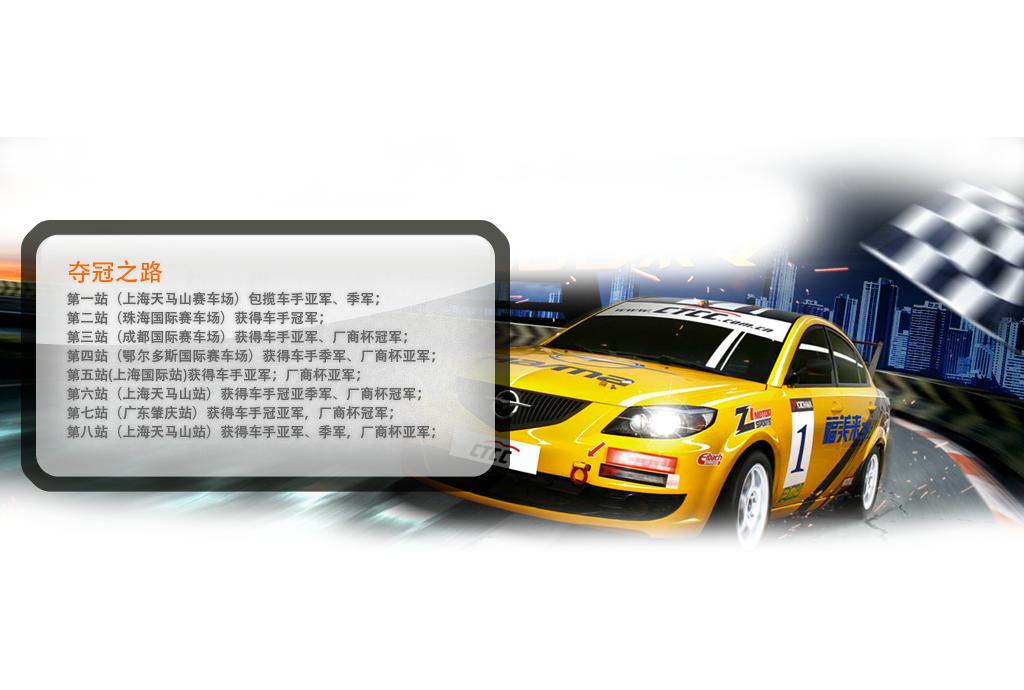
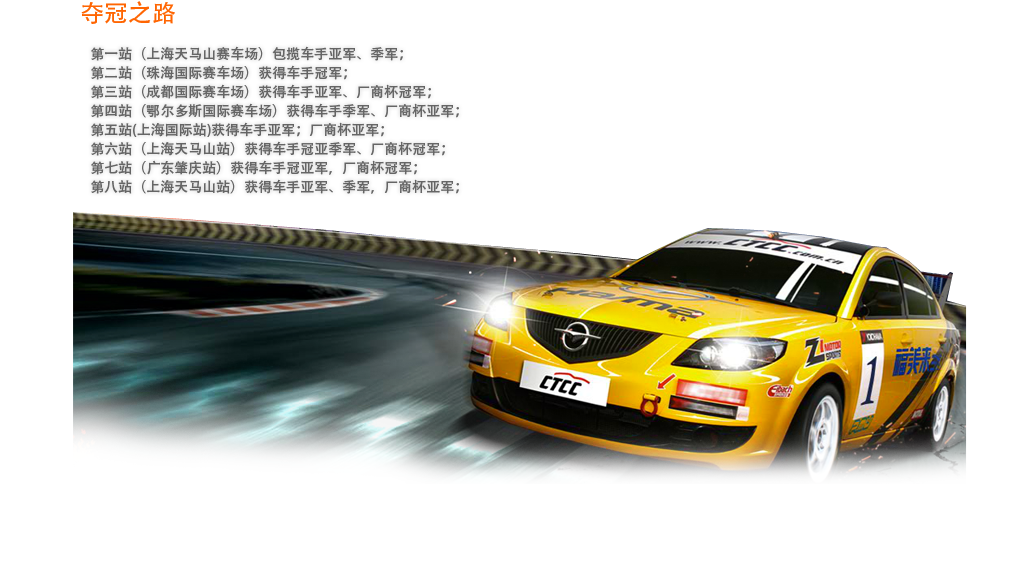
pk view controller

diff --git a/Haima/Controllers/ChampionViewController.m b/Haima/Controllers/ChampionViewController.m
@@ -8,17 +8,31 @@
 
 #import "ChampionViewController.h"
 #import "ChampionRoadViewController.h"
+#import "ChampionRouteViewController.h"
 #import "StarDriverViewController.h"
+#import "CtccIntroViewController.h"
+
+#define SELECTED_VIEW_CONTROLLER_TAG 234241
+
+@interface ChampionViewController()
+
+- (void)tabTapped:(UIButton *)button;
+
+@end
+
 
 @implementation ChampionViewController
 
+@synthesize viewControllerItems = _viewControllerItems;
+
 - (id)init
 {
-    UIViewController *detailController1 = [[[UIViewController alloc] init] autorelease];
-    detailController1.view.backgroundColor = [UIColor orangeColor];
+    //
+    // initialize view controllers
+    //
+    CtccIntroViewController *vc1 = [[[CtccIntroViewController alloc] init] autorelease];
     
-    UIViewController *detailController2 = [[[UIViewController alloc] init] autorelease];
-    detailController2.view.backgroundColor = [UIColor greenColor];
+    ChampionRouteViewController *vc2 = [[[ChampionRouteViewController alloc] init] autorelease];
     
     ChampionRoadViewController *vc3 = [[[ChampionRoadViewController alloc] init] autorelease];
     
@@ -30,25 +44,94 @@
     UIViewController *detailController6 = [[[UIViewController alloc] init] autorelease];
     detailController6.view.backgroundColor = [UIColor magentaColor];
     
-    NSArray *items = [[NSArray arrayWithObjects:
-                       [NSDictionary dictionaryWithObjectsAndKeys:@"CTCC介绍", @"title", detailController1, @"viewController", nil],
-                       [NSDictionary dictionaryWithObjectsAndKeys:@"7年CTCC征程", @"title", detailController2, @"viewController", nil],
-                       [NSDictionary dictionaryWithObjectsAndKeys:@"夺冠之路", @"title", vc3, @"viewController", nil],
-                       [NSDictionary dictionaryWithObjectsAndKeys:@"四大车手", @"title", vc4, @"viewController", nil],
-                       [NSDictionary dictionaryWithObjectsAndKeys:@"精彩视频", @"title", detailController5, @"viewController", nil],
-                       [NSDictionary dictionaryWithObjectsAndKeys:@"图片欣赏", @"title", detailController6, @"viewController", nil],
-                       nil] retain];
+    self.viewControllerItems = [NSArray arrayWithObjects:
+                                [NSDictionary dictionaryWithObjectsAndKeys:
+                                 @"CTCC介绍", @"title",
+                                 vc1, @"viewController",
+                                 NSStringFromCGRect(CGRectMake(345, 67, 90, 40)), @"frame",
+                                 nil],
+                                [NSDictionary dictionaryWithObjectsAndKeys:
+                                 @"7年CTCC征程", @"title",
+                                 vc2, @"viewController",
+                                 NSStringFromCGRect(CGRectMake(445, 67, 110, 40)), @"frame",
+                                 nil],
+                                [NSDictionary dictionaryWithObjectsAndKeys:
+                                 @"夺冠之路", @"title",
+                                 vc3, @"viewController",
+                                 NSStringFromCGRect(CGRectMake(562, 67, 74, 40)), @"frame",
+                                 nil],
+                                [NSDictionary dictionaryWithObjectsAndKeys:
+                                 @"四大车手", @"title",
+                                 vc4, @"viewController",
+                                 NSStringFromCGRect(CGRectMake(637, 67, 85, 40)), @"frame",
+                                 nil],
+                                [NSDictionary dictionaryWithObjectsAndKeys:
+                                 @"精彩视频", @"title",
+                                 detailController5, @"viewController",
+                                 NSStringFromCGRect(CGRectMake(723, 67, 80, 40)), @"frame",
+                                 nil],
+                                [NSDictionary dictionaryWithObjectsAndKeys:
+                                 @"图片欣赏", @"title",
+                                 detailController6, @"viewController",
+                                 NSStringFromCGRect(CGRectMake(808, 67, 90, 40)), @"frame",
+                                 nil],
+                                nil];
     
-    if (self = [super initWithMenuBarItems:items alignment:UITextAlignmentLeft referenceX:240])
-    {
-        
+    //
+    // setup ui components
+    //
+    int tag = 0;
+    for (NSDictionary *dict in self.viewControllerItems) {
+        UIButton *button = [UIButton buttonWithType:UIButtonTypeCustom];
+        button.tag = tag++;
+        button.frame = CGRectFromString([dict objectForKey:@"frame"]);
+        [button setTitle:[dict objectForKey:@"title"] forState:UIControlStateNormal];
+        [button setTitleColor:[UIColor darkTextColor] forState:UIControlStateNormal];
+        [button.titleLabel setFont:[UIFont systemFontOfSize:15]];
+        [button addTarget:self action:@selector(tabTapped:) forControlEvents:UIControlEventTouchUpInside];
+        [self.view addSubview:button];
     }
-    [items release];
+    
     return self;
+}
+
+- (void)loadView {
+    UIImageView *view = [[UIImageView alloc] initWithFrame:CGRectMake(0, 0, 1024, 690)];
+    view.image = [UIImage imageNamed:@"champion-bg"];
+    view.userInteractionEnabled = YES;
+    self.view = view;
+    [view release];
+}
+
+- (void)viewDidLoad {
+    [super viewDidLoad];
+    
+    UIButton *button = (UIButton *)[self.view viewWithTag:0];
+    [self tabTapped:button];
+}
+
+- (void)tabTapped:(UIButton *)button {
+    // Remove the current view controller's view
+    UIView* currentView = [self.view viewWithTag:SELECTED_VIEW_CONTROLLER_TAG];
+    [currentView removeFromSuperview];
+    
+    // Get the right view controller
+    NSDictionary *data = [self.viewControllerItems objectAtIndex:button.tag];
+    UIViewController* viewController = [data objectForKey:@"viewController"];
+    
+    // Set the view controller's frame to account for the tab bar
+    viewController.view.frame = CGRectMake(0, 120, self.view.bounds.size.width, self.view.bounds.size.height-198);
+    
+    // Se the tag so we can find it later
+    viewController.view.tag = SELECTED_VIEW_CONTROLLER_TAG;
+    
+    // Add the new view controller's view
+    [self.view addSubview:viewController.view];
 }
 
 - (void)dealloc
 {
+    [_viewControllerItems release];
     [super dealloc];
 }
 

diff --git a/Haima/Controllers/PkViewController.m b/Haima/Controllers/PkViewController.m
@@ -1,0 +1,58 @@
+//
+//  PkViewController.m
+//  Haima
+//
+//  Created by Lei Perry on 4/13/12.
+//  Copyright (c) 2012 __MyCompanyName__. All rights reserved.
+//
+
+#import "PkViewController.h"
+
+@implementation PkViewController
+
+- (void)loadView
+{
+    UIImageView *view = [[UIImageView alloc] initWithFrame:CGRectMake(0, 0, 1024, 690)];
+    view.image = [UIImage imageNamed:@"pk-bg"];
+    view.userInteractionEnabled = YES;
+    self.view = view;
+    [view release];
+    
+    UIScrollView *scrollView = [[[UIScrollView alloc] initWithFrame:CGRectMake(34, 222, 965, 406)] autorelease];
+    
+    
+    UIImage *leftImage = [UIImage imageNamed:@"pk-left"];
+    UIImage *rightImage = [UIImage imageNamed:@"pk-right-0"];
+    
+    UIImageView *leftImageView = [[UIImageView alloc] initWithFrame:CGRectMake(1, 0, leftImage.size.width, leftImage.size.height)];
+    leftImageView.image = leftImage;
+    [scrollView addSubview:leftImageView];
+    [leftImageView release];
+    
+    UIImageView *rightImageView = [[UIImageView alloc] initWithFrame:CGRectMake(leftImage.size.width+1, 0, rightImage.size.width, rightImage.size.height)];
+    rightImageView.tag = 0;
+    rightImageView.image = rightImage;
+    [scrollView addSubview:rightImageView];
+    [rightImageView release];
+    
+    for (int i=1; i<5; i++) {
+        rightImage = [UIImage imageNamed:[NSString stringWithFormat:@"pk-right-%d", i]];
+        
+        rightImageView = [[UIImageView alloc] initWithFrame:CGRectMake(leftImage.size.width+1, 0, rightImage.size.width, rightImage.size.height)];
+        rightImageView.tag = i;
+        rightImageView.image = rightImage;
+        rightImageView.alpha = 0;
+        [scrollView insertSubview:rightImageView atIndex:1];
+        [rightImageView release];
+    }
+    
+    scrollView.contentSize = CGSizeMake(scrollView.frame.size.width, leftImage.size.height);
+    [self.view addSubview:scrollView];
+}
+
+- (void)dealloc
+{
+    [super dealloc];
+}
+
+@end

diff --git a/Haima/Controllers/CustomTabBarViewController.m b/Haima/Controllers/CustomTabBarViewController.m
@@ -11,6 +11,7 @@
 #import "ChampionViewController.h"
 #import "CalculatorViewController.h"
 #import "MaintenanceViewController.h"
+#import "PkViewController.h"
 
 #define SELECTED_VIEW_CONTROLLER_TAG 98456345
 
@@ -29,7 +30,7 @@ static NSArray* tabBarItems = nil;
         
         ChampionViewController *vc2 = [[[ChampionViewController alloc] init] autorelease];
         
-        UIViewController *detailController3 = [[[UIViewController alloc] init] autorelease];
+        PkViewController *vc3 = [[[PkViewController alloc] init] autorelease];
         
         MaintenanceViewController *vc4 = [[[MaintenanceViewController alloc] init] autorelease];
         
@@ -44,7 +45,7 @@ static NSArray* tabBarItems = nil;
         tabBarItems = [[NSArray arrayWithObjects:
                         [NSDictionary dictionaryWithObjectsAndKeys:@"tab-icon-intro", @"image", vc1, @"viewController", nil],
                         [NSDictionary dictionaryWithObjectsAndKeys:@"tab-icon-champion", @"image", vc2, @"viewController", nil],
-                        [NSDictionary dictionaryWithObjectsAndKeys:@"tab-icon-pk", @"image", detailController3, @"viewController", nil],
+                        [NSDictionary dictionaryWithObjectsAndKeys:@"tab-icon-pk", @"image", vc3, @"viewController", nil],
                         [NSDictionary dictionaryWithObjectsAndKeys:@"tab-icon-maintain", @"image", vc4, @"viewController", nil],
                         [NSDictionary dictionaryWithObjectsAndKeys:@"tab-icon-promo", @"image", detailController5, @"viewController", nil],
                         [NSDictionary dictionaryWithObjectsAndKeys:@"tab-icon-calculator", @"image", vc6, @"viewController", nil],

diff --git a/Haima/Controllers/StarDriverViewController.m b/Haima/Controllers/StarDriverViewController.m
@@ -12,23 +12,24 @@
 
 - (void)loadView
 {
-    UIImageView *view = [[UIImageView alloc] initWithFrame:CGRectMake(0, 0, 1024, 690)];
+    [super loadView];
+    
+    UIImageView *view = [[UIImageView alloc] initWithFrame:CGRectMake(0, 0, 1024, 570)];
     view.image = [UIImage imageNamed:@"star-driver-bg"];
-    view.userInteractionEnabled = YES;
-    self.view = view;
+    [self.view addSubview:view];
     [view release];
     
-    int x = 121;
-    int y = 219;
-    for (int i=1; i<=4; i++) {
-        UIButton *button = [UIButton buttonWithType:UIButtonTypeCustom];
-        button.frame = CGRectMake(x, y, 183, 268);
-        button.tag = i;
-        [button setImage:[UIImage imageNamed:[NSString stringWithFormat:@"star-driver-%d", i]] forState:UIControlStateNormal];
-        [button addTarget:self action:@selector(starDriverClicked:) forControlEvents:UIControlEventTouchUpInside];
-        [self.view addSubview:button];
-        x += 198;
-    }
+//    int x = 121;
+//    int y = 219;
+//    for (int i=1; i<=4; i++) {
+//        UIButton *button = [UIButton buttonWithType:UIButtonTypeCustom];
+//        button.frame = CGRectMake(x, y, 183, 268);
+//        button.tag = i;
+//        [button setImage:[UIImage imageNamed:[NSString stringWithFormat:@"star-driver-%d", i]] forState:UIControlStateNormal];
+//        [button addTarget:self action:@selector(starDriverClicked:) forControlEvents:UIControlEventTouchUpInside];
+//        [self.view addSubview:button];
+//        x += 198;
+//    }
 }
 
 - (void)starDriverClicked:(UIButton *)button {

diff --git a/Haima/Controllers/ChampionRouteViewController.m b/Haima/Controllers/ChampionRouteViewController.m
@@ -1,21 +1,25 @@
 //
-//  ChampionRoadViewController.m
+//  ChampionRouteViewController.m
 //  Haima
 //
 //  Created by Lei Perry on 4/13/12.
 //  Copyright (c) 2012 __MyCompanyName__. All rights reserved.
 //
 
-#import "ChampionRoadViewController.h"
+#import "ChampionRouteViewController.h"
 
-@implementation ChampionRoadViewController
+@implementation ChampionRouteViewController
 
+
+#pragma mark - View lifecycle
+
+// Implement loadView to create a view hierarchy programmatically, without using a nib.
 - (void)loadView
 {
     [super loadView];
     
     UIImageView *view = [[UIImageView alloc] initWithFrame:CGRectMake(0, 0, 1024, 570)];
-    view.image = [UIImage imageNamed:@"champion-road"];
+    view.image = [UIImage imageNamed:@"champion-route"];
     [self.view addSubview:view];
     [view release];
 }

diff --git a/Haima/Controllers/CtccIntroViewController.m b/Haima/Controllers/CtccIntroViewController.m
@@ -1,21 +1,25 @@
 //
-//  ChampionRoadViewController.m
+//  CtccIntroViewController.m
 //  Haima
 //
 //  Created by Lei Perry on 4/13/12.
 //  Copyright (c) 2012 __MyCompanyName__. All rights reserved.
 //
 
-#import "ChampionRoadViewController.h"
+#import "CtccIntroViewController.h"
 
-@implementation ChampionRoadViewController
+@implementation CtccIntroViewController
 
+
+#pragma mark - View lifecycle
+
+// Implement loadView to create a view hierarchy programmatically, without using a nib.
 - (void)loadView
 {
     [super loadView];
     
     UIImageView *view = [[UIImageView alloc] initWithFrame:CGRectMake(0, 0, 1024, 570)];
-    view.image = [UIImage imageNamed:@"champion-road"];
+    view.image = [UIImage imageNamed:@"ctcc-intro"];
     [self.view addSubview:view];
     [view release];
 }

diff --git a/Haima/Controllers/ChampionViewController.h b/Haima/Controllers/ChampionViewController.h
@@ -6,8 +6,8 @@
 //  Copyright (c) 2012 __MyCompanyName__. All rights reserved.
 //
 
-#import "MenuBarViewController.h"
+@interface ChampionViewController : UIViewController
 
-@interface ChampionViewController : MenuBarViewController
+@property (nonatomic, retain) NSArray *viewControllerItems;
 
 @end

diff --git a/Haima/Controllers/ChampionRouteViewController.h b/Haima/Controllers/ChampionRouteViewController.h
@@ -1,0 +1,12 @@
+//
+//  ChampionRouteViewController.h
+//  Haima
+//
+//  Created by Lei Perry on 4/13/12.
+//  Copyright (c) 2012 __MyCompanyName__. All rights reserved.
+//
+
+
+@interface ChampionRouteViewController : UIViewController
+
+@end

diff --git a/Haima/Controllers/CtccIntroViewController.h b/Haima/Controllers/CtccIntroViewController.h
@@ -1,0 +1,11 @@
+//
+//  CtccIntroViewController.h
+//  Haima
+//
+//  Created by Lei Perry on 4/13/12.
+//  Copyright (c) 2012 __MyCompanyName__. All rights reserved.
+//
+
+@interface CtccIntroViewController : UIViewController
+
+@end

diff --git a/Haima/Controllers/PkViewController.h b/Haima/Controllers/PkViewController.h
@@ -1,0 +1,12 @@
+//
+//  PkViewController.h
+//  Haima
+//
+//  Created by Lei Perry on 4/13/12.
+//  Copyright (c) 2012 __MyCompanyName__. All rights reserved.
+//
+
+
+@interface PkViewController : UIViewController
+
+@end
